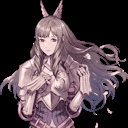
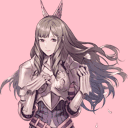
Fix faces having black color
Set transparent color to another instead of black, and outline color will also change as side effect.

diff --git a/asset/script/make_faces.py b/asset/script/make_faces.py
@@ -116,13 +116,13 @@ def make_faces(src_folder, dst_folder, filename):
             if im is None:
                 warnings.warn('%s does not have a face' % face)
                 continue
+            dst = os.path.join(dst_folder, 'full', '%s_%s' % (face, face_file))
             im = im.crop(im.getbbox())
             im = im.crop((0, 0, im.width, im.width))
             im = im.resize((128, 128))
-            im = im.convert('RGB')
+            im = common.convert_rgba_to_rgb(im, common.decide_background_color_for_image(dst))
             im = im.quantize(colors=64, dither=Image.Dither.NONE)
             # im = im.convert('P', dither=Image.Dither.NONE, palette=Image.Palette.ADAPTIVE, colors=64)
-            dst = os.path.join(dst_folder, 'full', '%s_%s' % (face, face_file))
             im.save(dst)
             hasChibiFace = True
             try:
@@ -130,7 +130,7 @@ def make_faces(src_folder, dst_folder, filename):
                 dst = os.path.join(dst_folder, 'chibi', '%s_Face_FC.png' % face)
                 im = Image.open(src)
                 im = im.resize((32, 32))
-                im = im.convert('RGB')
+                im = common.convert_rgba_to_rgb(im, common.decide_background_color_for_image(dst))
                 im = im.quantize(colors=16, dither=Image.Dither.NONE)
                 # im = im.convert('P', dither=Image.Dither.NONE, palette=Image.Palette.ADAPTIVE, colors=16)
                 im.save(dst)

diff --git a/asset/script/common.py b/asset/script/common.py
@@ -1,6 +1,8 @@
 import json
 import sys
 import os
+import re
+from PIL import Image
 
 # Path: asset/script/common.py
 
@@ -22,3 +24,28 @@ def find_file_in_path(filename, path, recursive=True):
         if filename in files:
             return os.path.join(root, filename)
     return None
+
+def parse_background_color_in_grit(grit_path):
+    with open(grit_path, 'r') as f:
+        for line in f:
+            result = re.findall(r'-gT([0-9a-fA-F]+)', line)
+            if result:
+                return tuple(int(result[0][i:i+2], 16) for i in (0, 2, 4))
+    return None
+
+def decide_background_color_for_image(img_path):
+    path = os.path.splitext(img_path)[0] + '.grit'
+    if os.path.isfile(path):
+        return parse_background_color_in_grit(path)
+    path = os.path.basename(os.path.normpath(os.path.dirname(img_path))) + '.grit'
+    if os.path.isfile(path):
+        return parse_background_color_in_grit(path)
+    return None
+
+def convert_rgba_to_rgb(img, background_color):
+    if background_color is None:
+        return img.convert('RGB')
+    img.load()
+    background = Image.new('RGB', img.size, background_color)
+    background.paste(img, mask=img.split()[3]) # 3 is the alpha channel
+    return background
